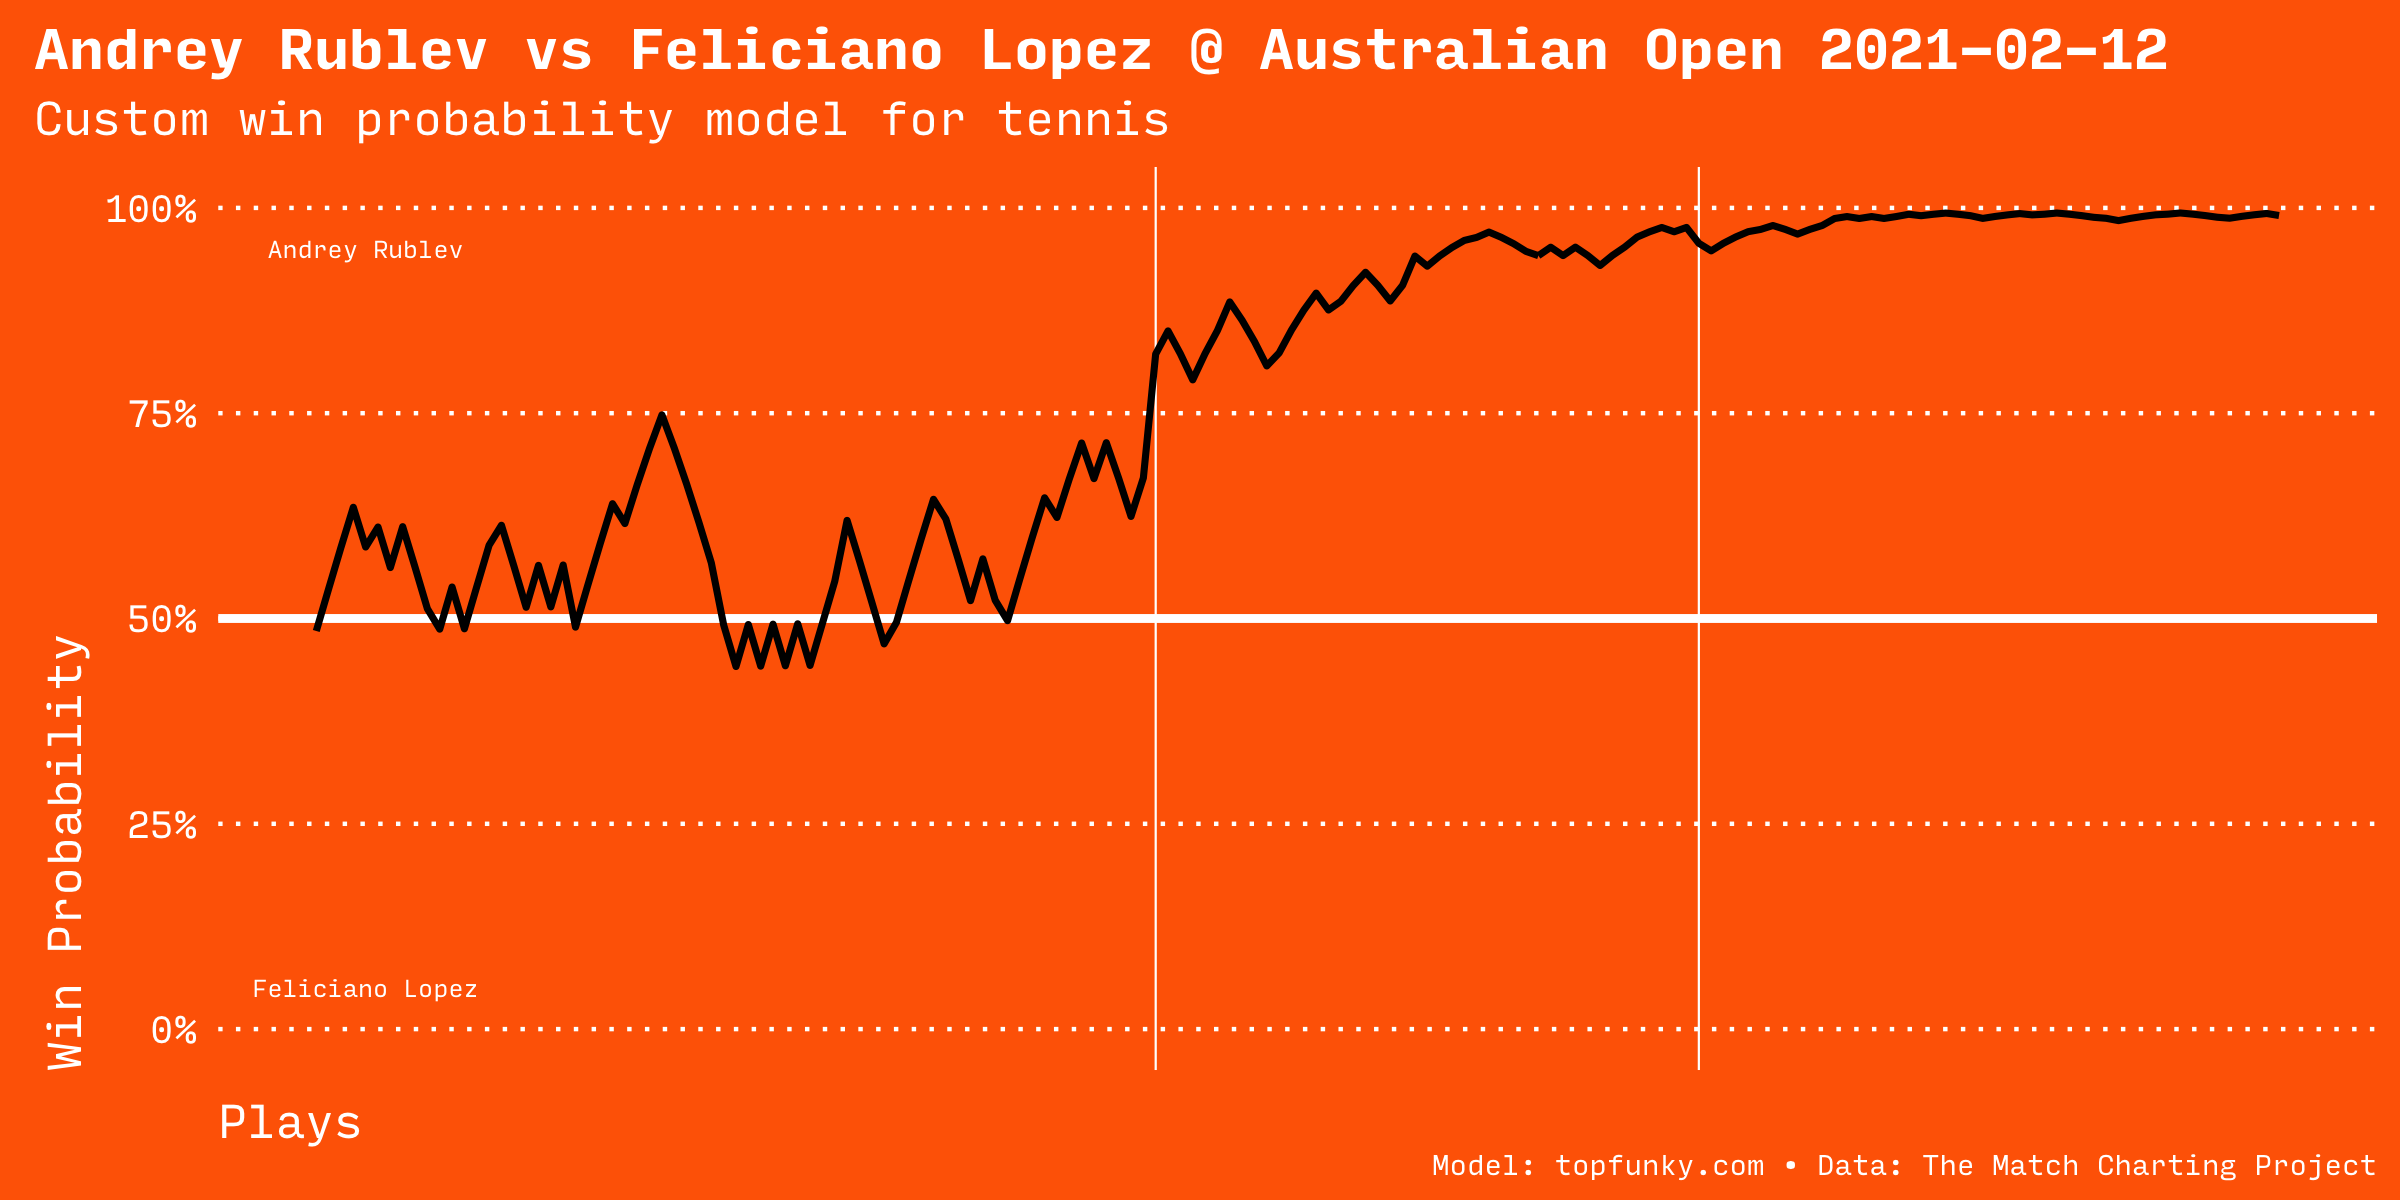
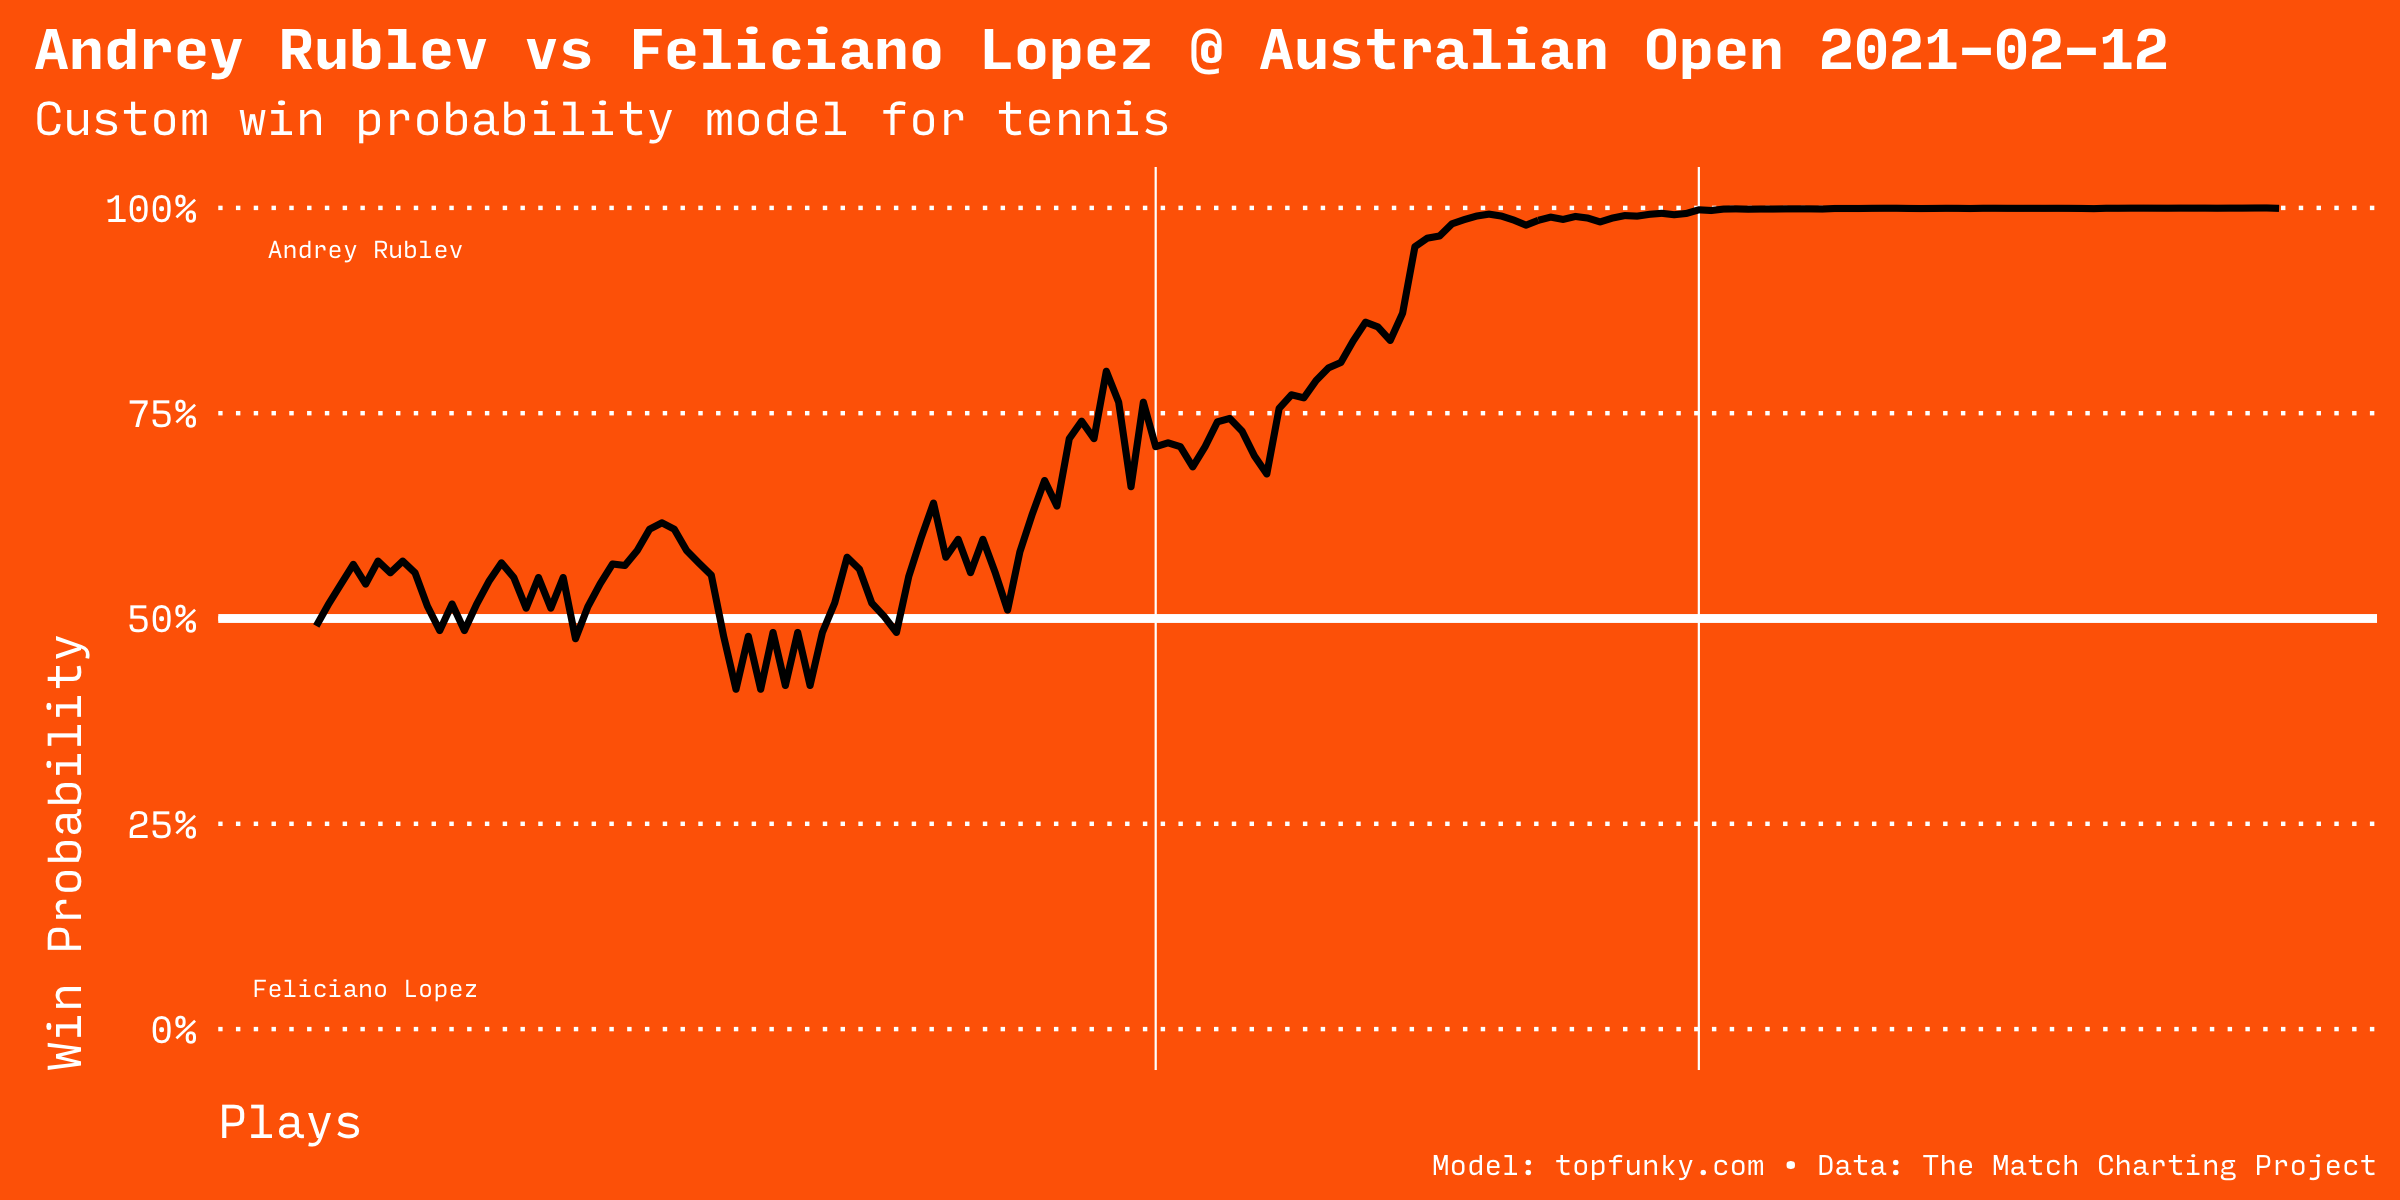
Update to use xgboost
- Use xgboost for model and prediction
- Render decision tree using rpart
- Render importance chart using xgboost
- Move charts to `m` or `w` subdirectories

Changed region(s): [[0.3438, 0.2158, 0.5938, 0.5242], [0.125, 0.3392, 0.3438, 0.5858], [0.5938, 0.1542, 0.9688, 0.2158]]

diff --git a/README.md b/README.md
@@ -1,6 +1,6 @@
 # Tennis In-Game Win Probability with R
 
-An experiment in building an in-game win probability model for tennis matches.
+An experiment in building an in-game win probability model for tennis matches. Uses [XGBoost](https://xgboost.ai).
 
 ## Sample match
 
@@ -17,11 +17,21 @@ An experiment in building an in-game win probability model for tennis matches.
 
 Women's model
 
-![Accuracy Women](out/accuracy-w.png)
+![Accuracy Women](out/w/accuracy.png)
 
 Men's model
 
-![Accuracy Men](out/accuracy-m.png)
+![Accuracy Men](out/m/accuracy.png)
+
+## Feature Importance
+
+Women's model
+
+![Feature Importance Women](out/w/importance.png)
+
+Men's model
+
+![Feature Importance Men](out/m/importance.png)
 
 ## Reference
 
@@ -32,7 +42,7 @@ Data is from the [Match Charting Project](https://github.com/JeffSackmann/tennis
 Run on the command line:
 
 ```shell
-$ R < tennis-win-probability.R --no-save
+$ R --no-save < tennis-win-probability.R
 ```
 
 Data cleanup tasks to do:
